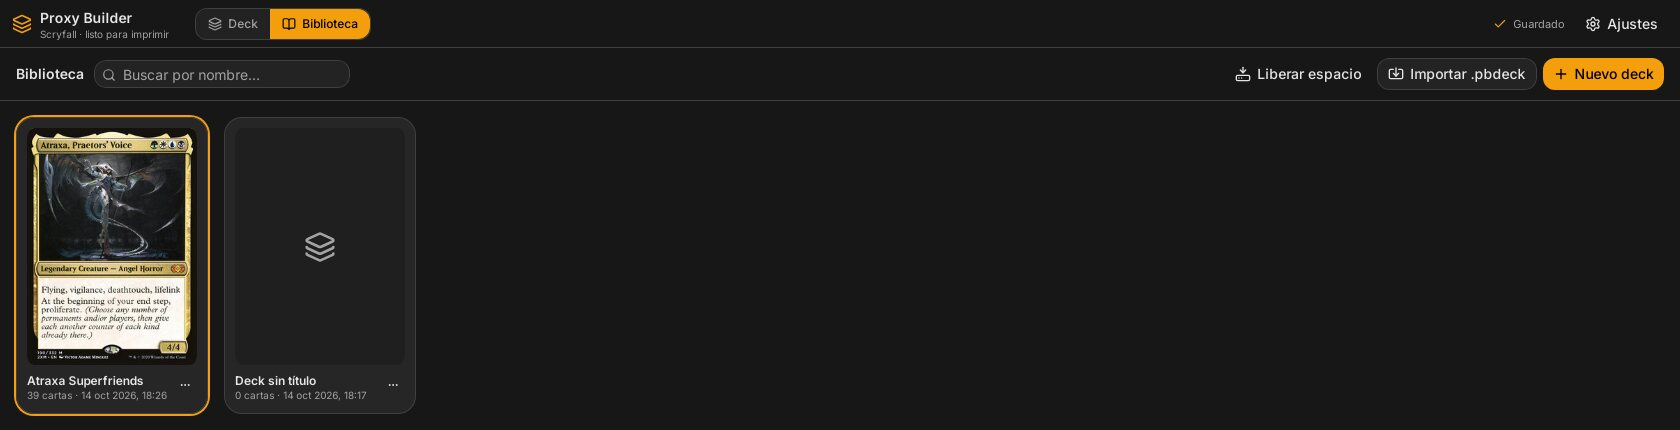
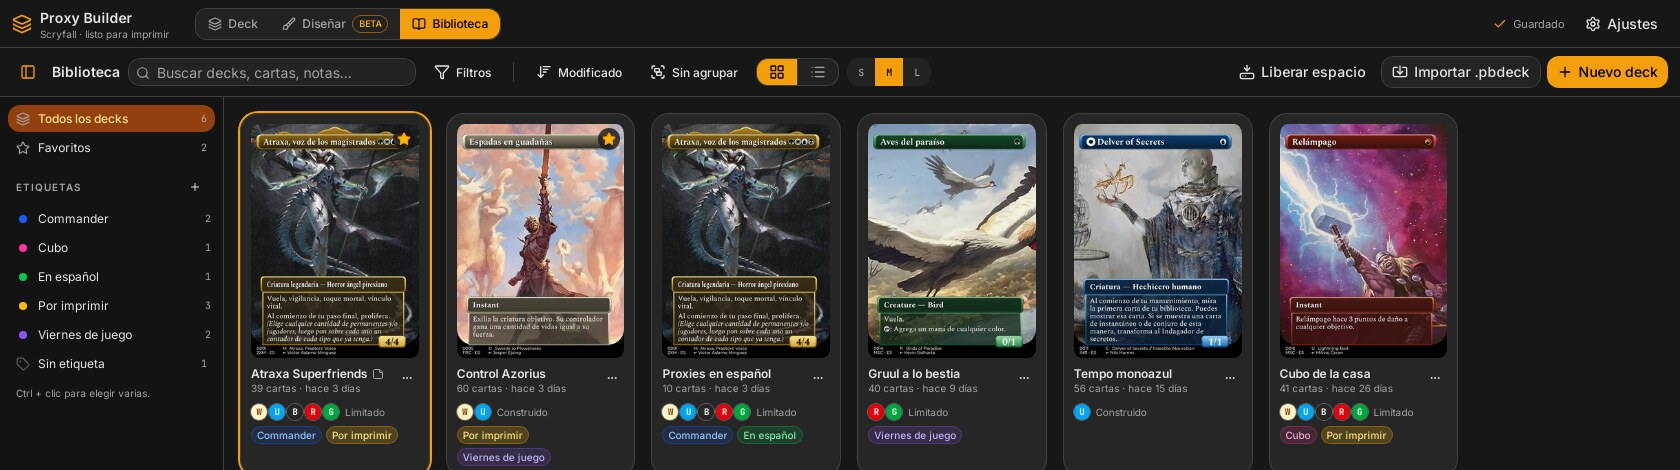
Documentación: biblioteca en el README y capturas
Captura de la biblioteca en español y en inglés; README y CLAUDE.md recogen las etiquetas, favoritos y notas.

diff --git a/README.es.md b/README.es.md
@@ -237,7 +237,28 @@ trabajas. Puedes duplicarlos, renombrarlos y **exportarlos como `.pbdeck`** con
 todas sus imágenes dentro para pasarlos a otro equipo o a un amigo. «Liberar
 espacio» borra las imágenes que ya no usa ningún deck.
 
+- **Etiquetas tuyas**, con nombre y color: Commander, Por imprimir, Viernes de
+  juego… Se ponen a un deck o a varios a la vez, y se filtra por una o por
+  varias (los que tengan alguna o los que tengan todas).
+- **Favoritos** arriba, **notas** en cada deck y la **portada** que elijas
+  entre sus cartas.
+- **Búsqueda** por el nombre del deck, por las cartas que lleva, por sus notas o
+  por sus etiquetas. **Filtros** por identidad de color (los incluye, exactos o
+  como mucho), por clase (Commander, construido, limitado), por los formatos en
+  los que es legal, por el idioma de sus cartas y por si lleva cartas diseñadas
+  o imágenes propias.
+- **Orden** por fecha de modificado, abierto o creado, nombre, cartas, precio,
+  coste medio o colores, y **grupos** por etiqueta, colores, clase o idioma.
+  Agrupados por etiqueta, un deck con varias sale en cada una.
+- Dos vistas: la **cuadrícula**, en tres tamaños, y la **lista**, con los datos
+  técnicos de cada deck: colores, clase y bracket, cartas y fichas, coste
+  medio, precio estimado, idioma, imágenes propias y fechas.
+- Varios decks a la vez (Ctrl + clic, Mayús + clic, Ctrl + A) para etiquetarlos,
+  marcarlos como favoritos o borrarlos juntos.
+
 ![La biblioteca](docs/presentacion/biblioteca.jpg)
+
+![La biblioteca en lista, agrupada por etiqueta](docs/presentacion/biblioteca-lista.jpg)
 
 ---
 

diff --git a/README.md b/README.md
@@ -234,7 +234,27 @@ you work. You can duplicate them, rename them and **export them as `.pbdeck`** w
 all their images inside to pass them to another computer or a friend. «Liberar
 espacio» (Free up space) deletes the images that no deck uses any more.
 
+- **Your own tags**, with a name and a colour: Commander, To print, Friday
+  night… Put them on one deck or on several at once, and filter by one or by
+  several (decks with any of them, or with all of them).
+- **Favourites** at the top, **notes** for each deck and the **cover** you pick
+  from its cards.
+- **Search** by deck name, by the cards it has, by its notes or by its tags.
+  **Filters** by colour identity (includes, exactly or at most), by class
+  (Commander, constructed, limited), by the formats it's legal in, by the
+  language of its cards, and by whether it has designed cards or custom images.
+- **Sort** by modified, opened or created date, name, cards, price, average cost
+  or colours, and **group** by tag, colours, class or language. Grouped by tag, a
+  deck with several tags shows up under each one.
+- Two views: the **grid**, in three sizes, and the **list**, with the technical
+  details of each deck: colours, class and bracket, cards and tokens, average
+  cost, estimated price, language, custom images and dates.
+- Select several decks (Ctrl + click, Shift + click, Ctrl + A) to tag them, mark
+  them as favourites or delete them together.
+
 ![The library](docs/presentacion/en/biblioteca.jpg)
+
+![The library as a list, grouped by tag](docs/presentacion/en/biblioteca-lista.jpg)
 
 ---
 

diff --git a/CLAUDE.md b/CLAUDE.md
@@ -154,6 +154,18 @@ inglés va en `src/i18n/en/<área>.ts`. `pnpm idiomas` falla si falta alguna.
     `disenar/arte-en-vivo.tsx` pone debajo la ilustración (`pbimg://…/b/`)
     con la misma cuenta que `pintar_arte` (`disenar/encuadre.ts`). Al parar
     entra la carta exacta. Las compuestas y grandes siguen por el camino normal.
+- **Biblioteca** (`features/library/`): etiquetas del usuario (`store/etiquetas.rs`,
+  tablas `tags` y `deck_tags`), favoritos, notas y portada elegida
+  (`decks.pinned/notes/cover_card_id`, migración 0003; no tocan `updated_at`).
+  Los detalles de cada deck (colores, clase, precio, idiomas, formatos…) los
+  calcula `biblioteca.rs` sin red con la caché de Scryfall y los guarda en
+  memoria por `updated_at`. En pantalla: `organizar.ts` (filtrar, ordenar,
+  agrupar —por etiqueta un deck sale en cada una— y selección, con tests),
+  `store.ts`, `preferencias.ts` (vista, orden y grupos se recuerdan; los
+  filtros no), cuadrícula y lista (columnas según el ancho), barra lateral de
+  etiquetas, menú del deck compartido (desplegable y clic derecho; con varios
+  elegidos actúa sobre todos) y el diálogo de propiedades. El `.pbdeck` lleva
+  etiquetas y notas.
 - «Editar carta» aplica a la carta, a sus copias (misma imagen: todo) o a
   todas (solo el color): `features/card-editor/propagar.ts`.
 - El `README.md` (en inglés) es la presentación de la app (Pablo, 14/10/2026):
